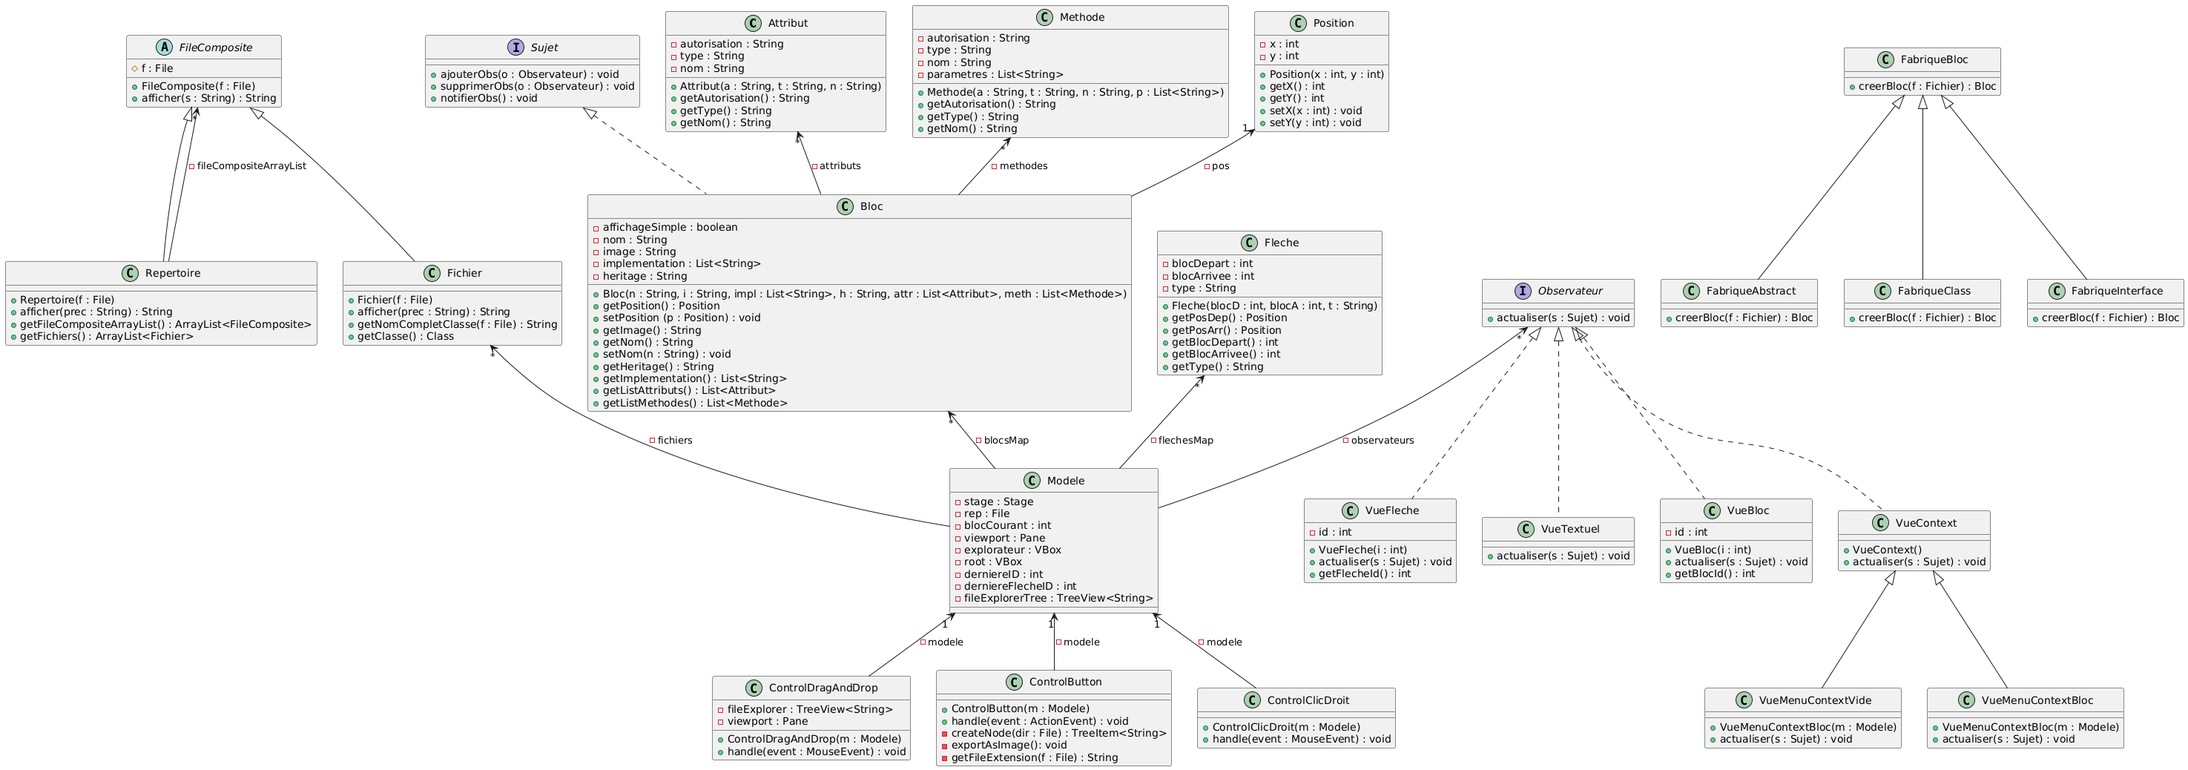
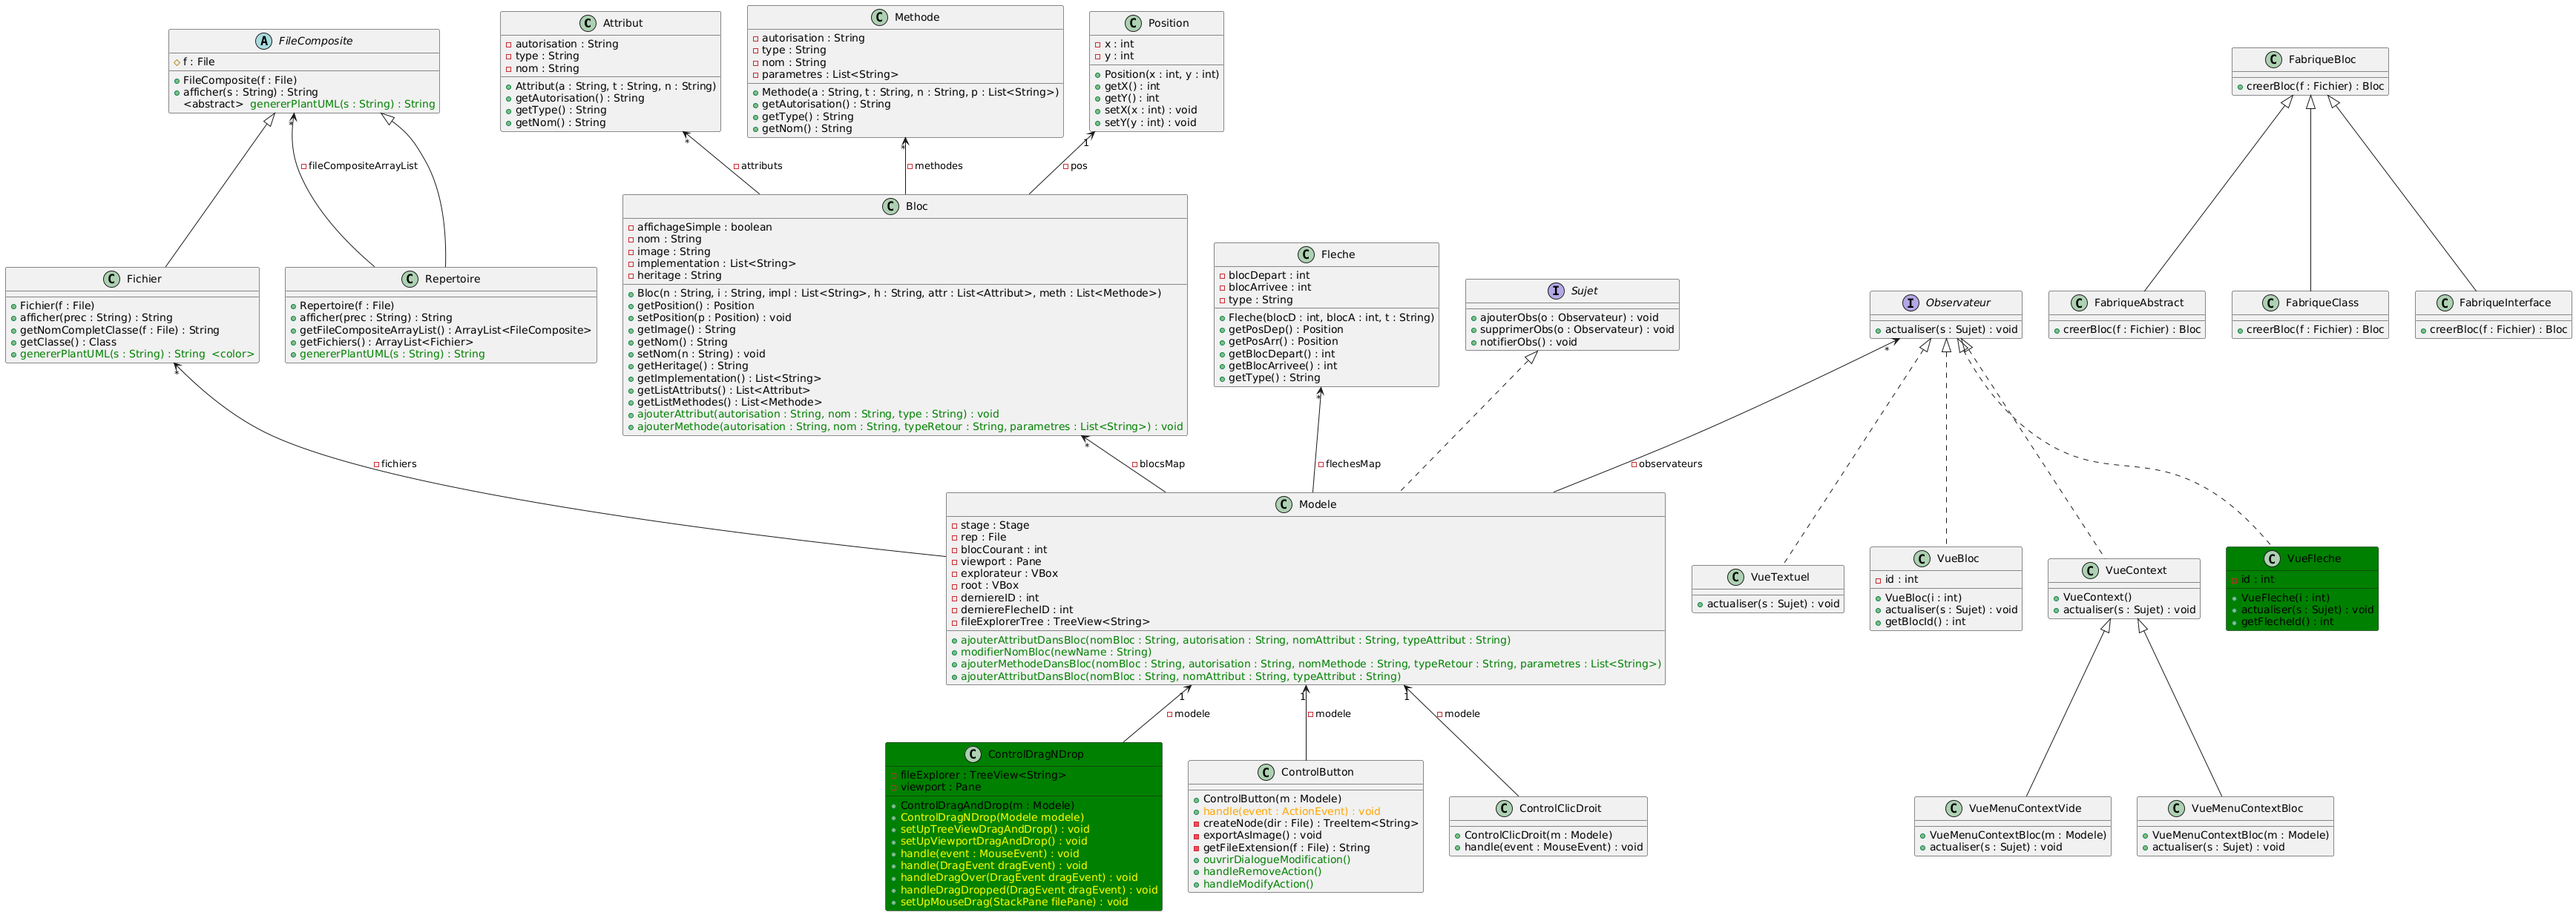
correction itérations

diff --git a/src/app/vue/VueFleche.java b/src/app/vue/VueFleche.java
@@ -16,7 +16,7 @@ public class VueFleche extends Pane implements Observateur {
 
     @Override
     public void actualiser(Sujet s) {
-        //TODO factoriser, commenter, traiter le cas où les flèches sont verticales, bug à la création
+        //TODO cardinalités
         Modele m = (Modele)s;
 
         if(m.getFlecheById(id) == null) {
@@ -45,7 +45,6 @@ public class VueFleche extends Pane implements Observateur {
             Position arrivee = new Position();
 
             // Dessiner la ligne
-
             if(departCentre.getX() - arriveeCentre.getX() < 0) {
                 setStartEnd(depart, arrivee, bDep, bArrivee, vDep, vArrivee);
             }else{
@@ -54,23 +53,22 @@ public class VueFleche extends Pane implements Observateur {
 
             double inclinaison = 5 * Math.PI / 6;
             int taille = 15;
-            double angle = Math.atan2(arrivee.getY() - depart.getY(), arrivee.getX() - depart.getX()) - inclinaison;
-            double x = Math.cos(angle);
-            double y = Math.sin(angle);
+            double angle = Math.atan2(arrivee.getY() - depart.getY(), arrivee.getX() - depart.getX());
+            double x = Math.cos((angle-inclinaison));
+            double y = Math.sin((angle-inclinaison));
             Line brancheHaut = new Line();
             brancheHaut.setStartX(arrivee.getX());
             brancheHaut.setStartY(arrivee.getY());
             brancheHaut.setEndX(arrivee.getX() + x * taille);
             brancheHaut.setEndY(arrivee.getY() + y * taille);
 
-            angle = Math.atan2(arrivee.getY() - depart.getY(), arrivee.getX() - depart.getX()) + inclinaison;
-            x = Math.cos(-angle);
-            y = Math.sin(-angle);
+            x = Math.cos((angle+inclinaison));
+            y = Math.sin((angle+inclinaison));
             Line brancheBas = new Line();
             brancheBas.setStartX(arrivee.getX());
             brancheBas.setStartY(arrivee.getY());
             brancheBas.setEndX(arrivee.getX() + x * taille);
-            brancheBas.setEndY(arrivee.getY() - y * taille);
+            brancheBas.setEndY(arrivee.getY() + y * taille);
             this.getChildren().addAll(brancheHaut, brancheBas);
 
             if(f.getType() != Fleche.ASSOCIATION){
@@ -98,12 +96,15 @@ public class VueFleche extends Pane implements Observateur {
     }
 
     private void setStartEnd(Position posA, Position posB, Bloc bPosA, Bloc bPosB, VueBloc vPosA, VueBloc vPosB){
+        // Calcul du centre de chaque point
         Position aCentre = new Position();
         aCentre.setX((bPosA.getPosition().getX() + bPosA.getPosition().getX() + vPosA.getWidth())/2);
         aCentre.setY((bPosA.getPosition().getY() + bPosA.getPosition().getY() + vPosA.getHeight())/2);
         Position bCentre = new Position();
         bCentre.setX((bPosB.getPosition().getX() + bPosB.getPosition().getX() + vPosB.getWidth())/2);
         bCentre.setY((bPosB.getPosition().getY() + bPosB.getPosition().getY() + vPosB.getHeight())/2);
+
+        // Gère le cas où les points sont à la verticale
         if(aCentre.getX() == bCentre.getX()){
             if(aCentre.getY() < bCentre.getY()) {
                 posA.setX(aCentre.getX());

diff --git a/src/app/Modele.java b/src/app/Modele.java
@@ -57,29 +57,6 @@ public class Modele implements Sujet{
         return dependances;
     }
 
-    /*
-    // Crée une flèche entre deux blocs avec un type donné
-    public void creerFleche(int blocDepart, int blocArrivee, String type) {
-        Fleche nouvelleFleche = new Fleche(blocDepart, blocArrivee, type);
-        fleches.add(nouvelleFleche);
-    }
-
-    // Crée un nouveau bloc à partir d'une classe et d'une position
-    public void creerBloc(Class className, Position position) {
-        // Génère un ID unique pour le nouveau bloc
-        int id = derniereID++;
-
-        // Crée une nouvelle instance de Bloc
-        Bloc nouveauBloc = new Bloc("NomBloc", "ImageBloc", "ImplementationBloc", "HeritageBloc");
-
-        // Initialise les attributs du bloc
-        nouveauBloc.setPosition(position.getX(), position.getY());
-
-        // Ajoute le bloc dans la HashMap avec l'ID unique
-        blocsMap.put(id, nouveauBloc);
-    }
-     */
-
     // Affiche un bloc dans le diagramme
     public void afficherBloc(Bloc b){
         derniereID++;
@@ -276,9 +253,6 @@ public class Modele implements Sujet{
 
     // Notifie tous les observateurs des changements
     public void notifierObs() {
-        // Ajuster la taille du viewport et du fileExplorer
-        viewport.setMinSize(stage.getWidth() * ((double) 3 / 4), stage.getHeight() - menuBar.getHeight());
-        fileExplorerTree.setMinSize(stage.getWidth() * ((double) 1 / 4), stage.getHeight() - menuBar.getHeight());
         for (Observateur observateur : observateurs) {
             observateur.actualiser(this);
         }

diff --git a/src/app/vue/VueMenuContextVide.java b/src/app/vue/VueMenuContextVide.java
@@ -73,7 +73,26 @@ public class VueMenuContextVide extends VueContext{
             b.setPosition(new Position((int) new_pos.getX(), (int) new_pos.getY()));
             m.afficherBloc(b);
         });
-        debug.getItems().addAll(add, add2, add3);
+        MenuItem add4 = new MenuItem("add4");
+        add4.setOnAction((e) -> {
+            ArrayList<Attribut> a = new ArrayList<>();
+            Attribut a1 = new Attribut("-", "Int", "attribut");
+            Attribut a2 = new Attribut("-", "String", "attribut2");
+            a.add(a1);
+            a.add(a2);
+            ArrayList<Methode> meth = new ArrayList<>();
+            Methode m1 = new Methode("+", "void", "foo()", null);
+            Methode m2 = new Methode("+", "String", "foo2(x : int)", null);
+            meth.add(m1);
+            meth.add(m2);
+            ArrayList<String> imp = new ArrayList<>();
+            imp.add("Test");
+            Bloc b = new Bloc("Yay", "Image", null, null, a, meth);
+            Position new_pos = m.screenPosToViewportPos(new Position(this.getX(), this.getY()));
+            b.setPosition(new Position((int) new_pos.getX(), (int) new_pos.getY()));
+            m.afficherBloc(b);
+        });
+        debug.getItems().addAll(add, add2, add3, add4);
         this.getItems().addAll(affichage, debug);
     }
     @Override

diff --git a/iterations/iteration_3/iteration_3.md b/iterations/iteration_3/iteration_3.md
@@ -27,4 +27,4 @@
 
 Diagramme de Classe
 
-![img.png](img.png)
+![Plantuml](plantuml.png)
